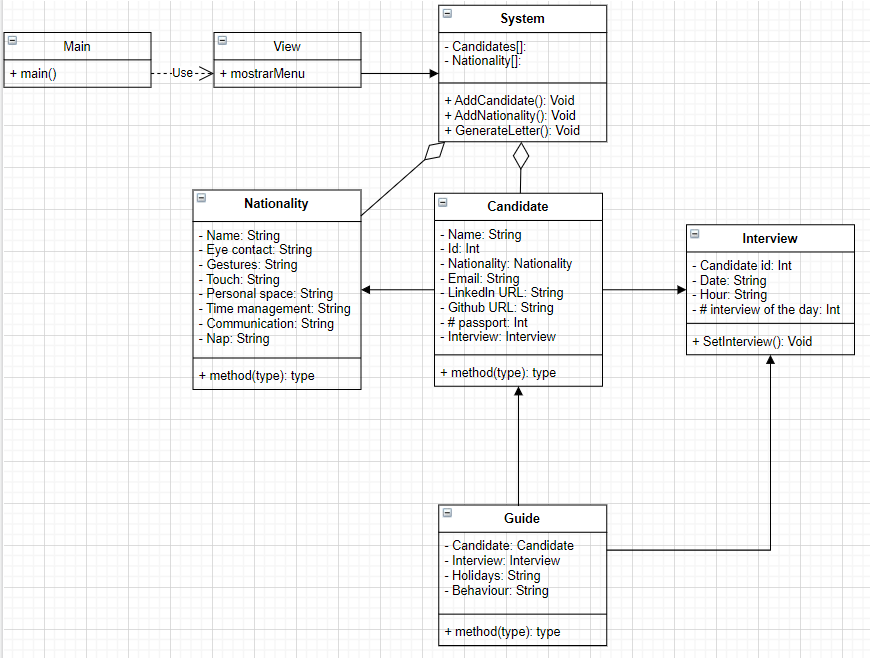
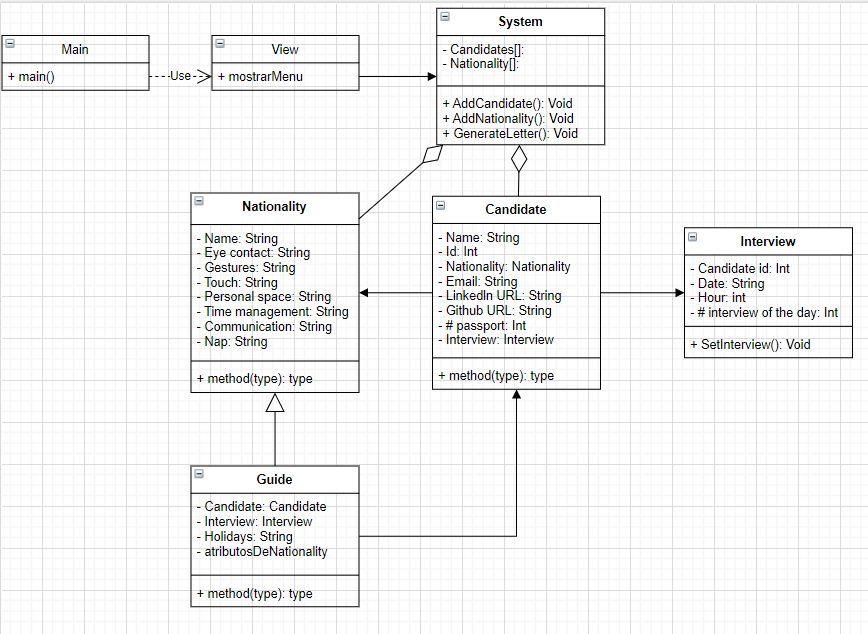
Se hicieron la mayoria de .h con atributos y sus relaciones con otras clases, se actualizo el diagrama de clases y se arreglo un problema de inclusion entre el view y el sistema (ya que estaban en distintas carpetas)

diff --git a/Recruitment-JJA-JML-SP/src/Model/Interview.h b/Recruitment-JJA-JML-SP/src/Model/Interview.h
@@ -1,0 +1,25 @@
+#ifndef INTERVIEW_H
+#define INTERVIEW_H
+
+//Incluimos las librerias
+#include <iostream>
+#include <stdlib.h>
+
+using std::cin;
+using std::cout;
+using std::string;
+
+//Definicion de la clase interview
+class Interview
+{
+private:
+    int candidateId;
+    string date;
+    int hour;//duran una hora, comienzan a las 10 y solo son 3 asi que tienen que ser a las 10,11 o 12
+    int numberOfInterviewDay; //Pasra controlar que solo hayan 3 entrevistas al dia
+public:
+    Interview(/* args */);
+    ~Interview();
+};
+
+#endif

diff --git a/Recruitment-JJA-JML-SP/src/Model/Candidate.h b/Recruitment-JJA-JML-SP/src/Model/Candidate.h
@@ -1,0 +1,31 @@
+#ifndef CANDIDATE_H
+#define CANDIDATE_H
+
+//Incluimos las librerias
+#include <iostream>
+#include <stdlib.h>
+#include "Nationality.h"
+#include "Interview.h"
+
+using std::cin;
+using std::cout;
+using std::string;
+
+//Definicion de la clase system
+class Candidate{
+private:
+    string name;
+    int id;
+    Nationality nationality;
+    string email;
+    string linkedlnURL;
+    string gitURL;
+    int passportNumber;
+    Interview interview;
+public:
+    Candidate(/* args */);
+    ~Candidate();
+};
+
+
+#endif

diff --git a/Recruitment-JJA-JML-SP/src/Model/Nationality.h b/Recruitment-JJA-JML-SP/src/Model/Nationality.h
@@ -1,0 +1,28 @@
+#ifndef NATIONALITY_H
+#define NATIONALITY_H
+
+//Incluimos las librerias
+#include <iostream>
+#include <stdlib.h>
+
+using std::cin;
+using std::cout;
+using std::string;
+
+//Definicion de la clase nationality
+class Nationality{
+private:
+    string Name;
+    string eyeContact;
+    string gestures;
+    string touch;
+    string personalSpace;
+    string timeManagement;
+    string communication;
+    string nap;
+public:
+    Nationality();
+    ~Nationality();
+};
+
+#endif

diff --git a/Recruitment-JJA-JML-SP/src/View/View.h b/Recruitment-JJA-JML-SP/src/View/View.h
@@ -1,0 +1,26 @@
+#ifndef SYSTEM_VIEW_H
+#define  SYSTEM_VIEW_H
+
+//Incluimos las librerias
+#include <iostream>
+#include <stdlib.h>
+#include "../Model/System.h"
+
+using std::cin;
+using std::cout;
+using std::string;
+
+//Definicion de la clase view
+class View{ 
+private:
+	// Objeto de que se enlaza con la vista del sistema
+	System recruitmentSystem;
+	// Privado pues son de uso interno
+	void mostrarMenu();
+public:		
+	View();
+	~View();
+
+};
+
+#endif

diff --git a/Recruitment-JJA-JML-SP/src/Model/System.h b/Recruitment-JJA-JML-SP/src/Model/System.h
@@ -1,0 +1,26 @@
+#ifndef VIEW_H
+#define  VIEW_H
+
+//Incluimos las librerias
+#include <iostream>
+#include <stdlib.h>
+#include <map>
+#include "Candidate.h"
+#include "Nationality.h"
+
+using std::cin;
+using std::cout;
+using std::string;
+using std::map;
+
+//Definicion de la clase system
+class System{ 
+private:
+    map<int, Candidate*> candidatesMap;
+    map<string, Nationality*> nationalitiesMap;
+public:
+    System();
+    ~System();
+};
+
+#endif

diff --git a/Recruitment-JJA-JML-SP/src/View/View.cpp b/Recruitment-JJA-JML-SP/src/View/View.cpp
@@ -1,0 +1,4 @@
+#include "View.h"
+
+View::View(){
+}
